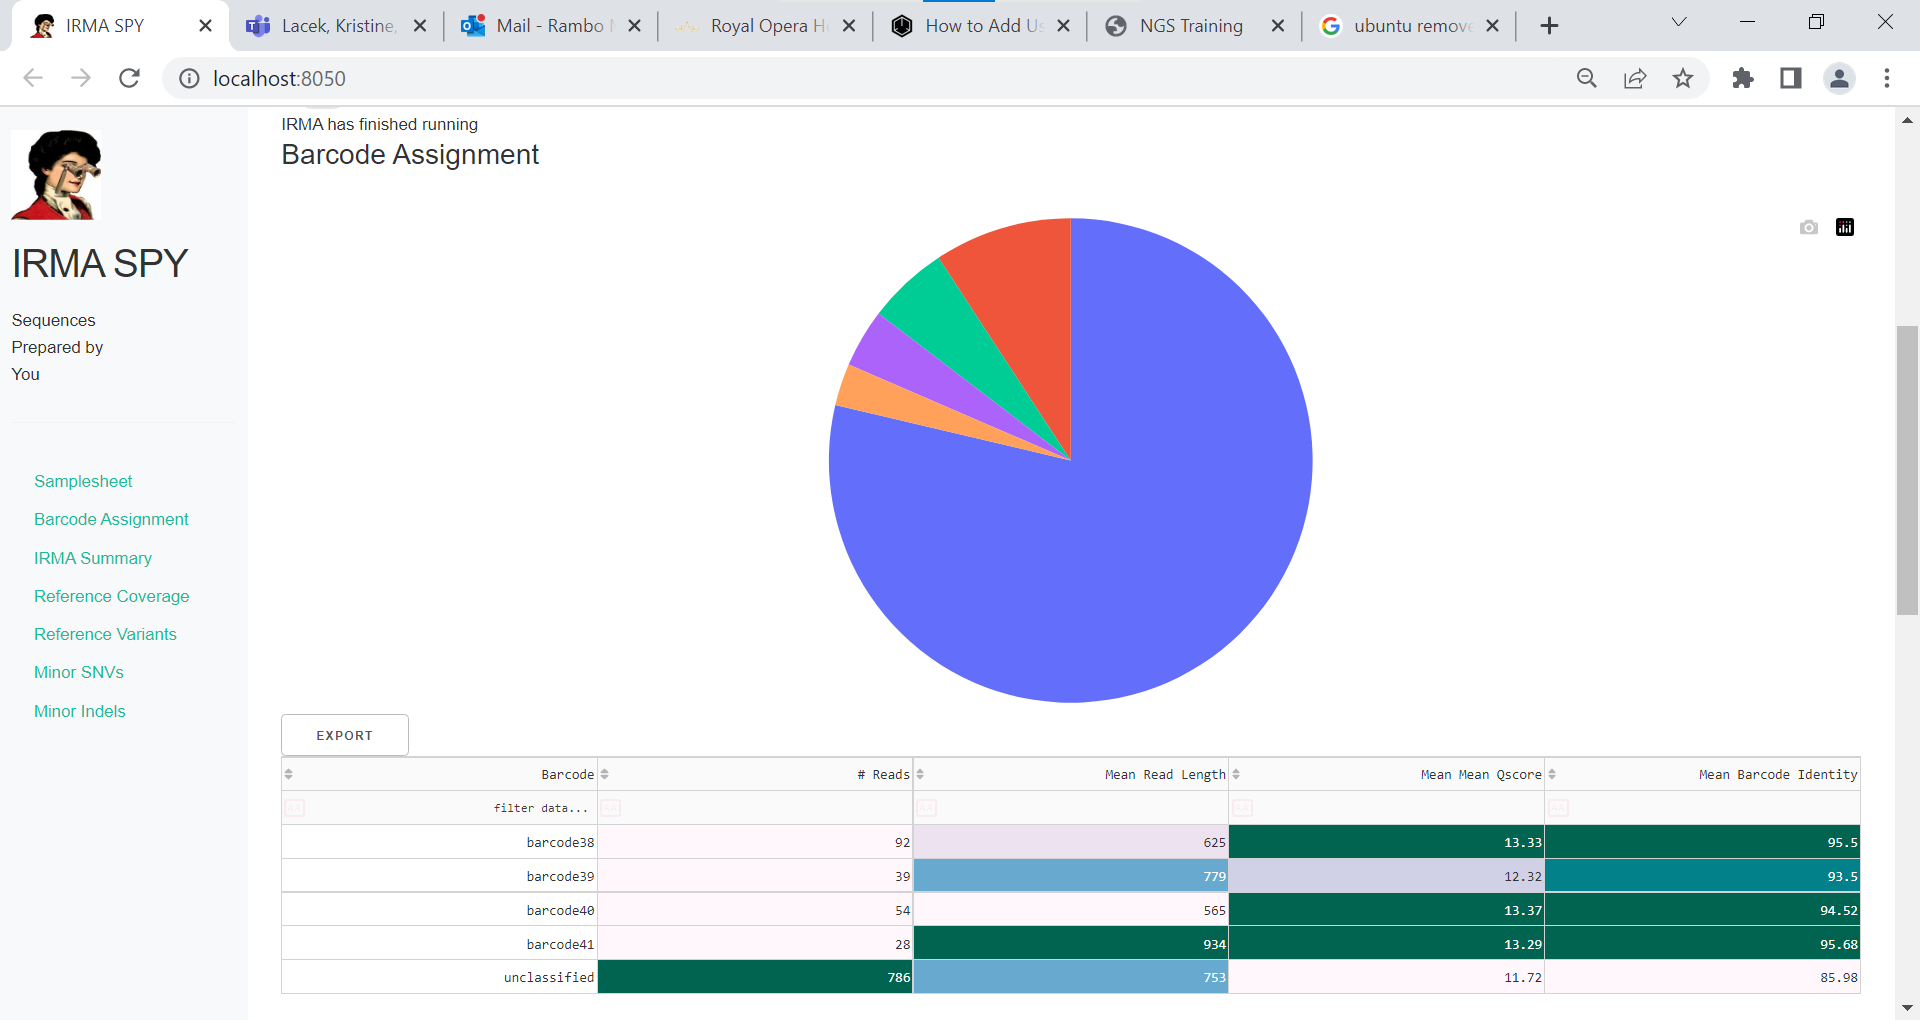
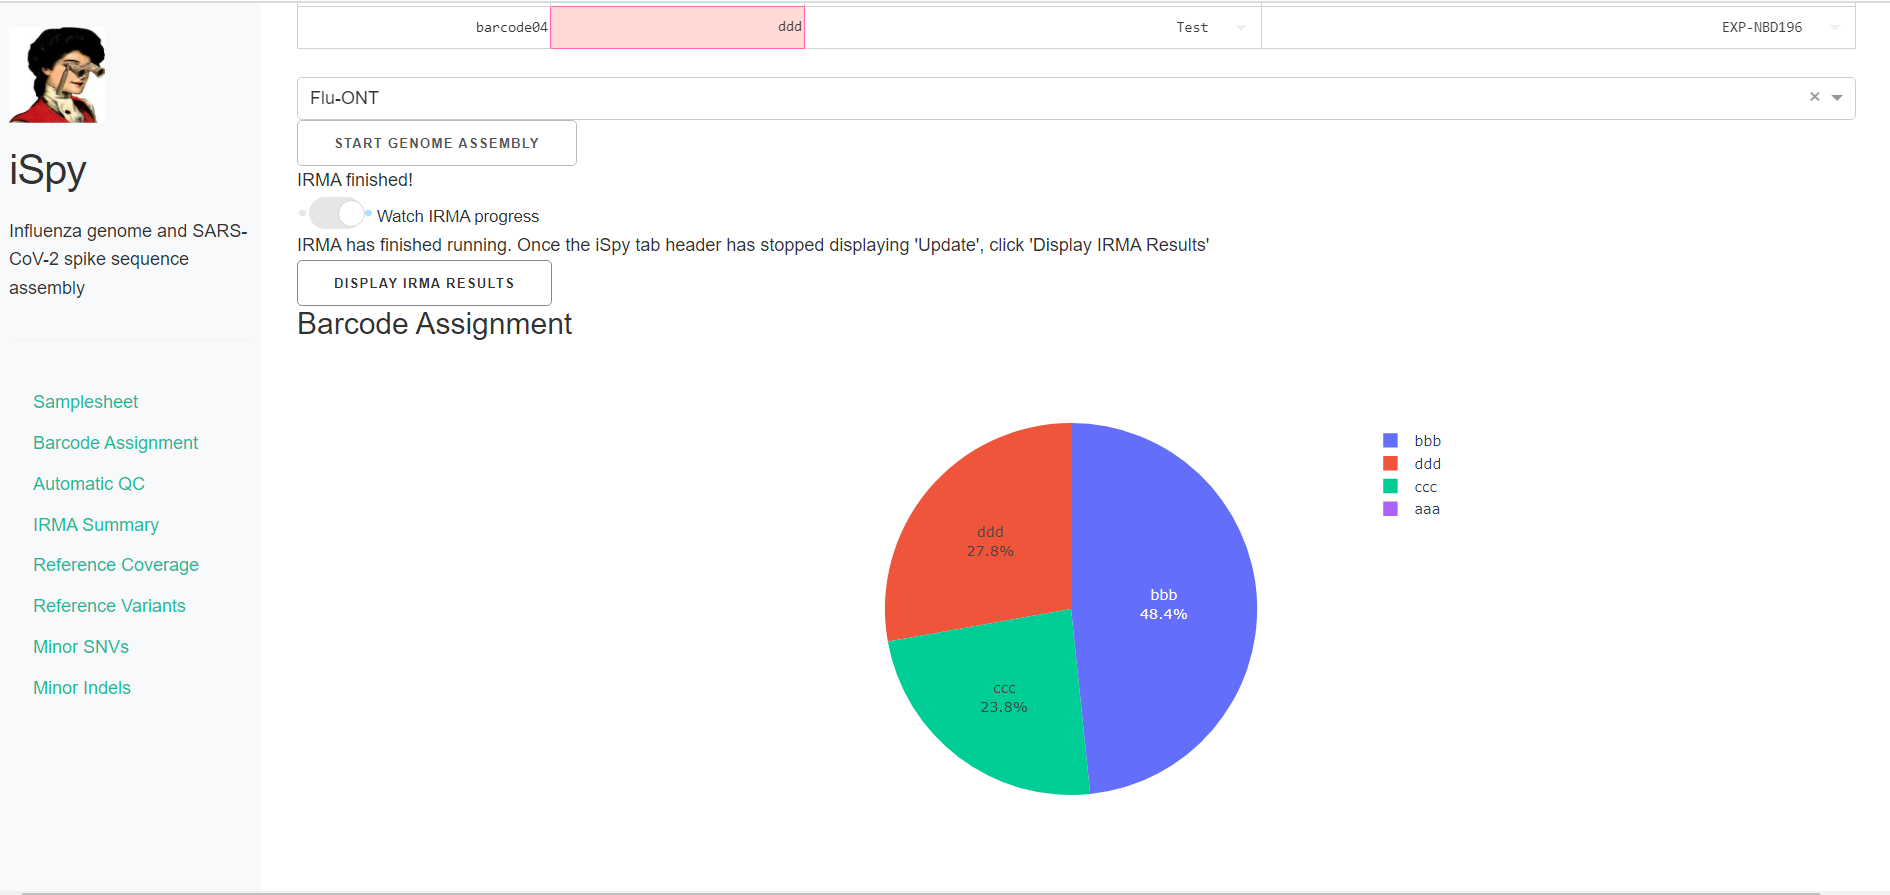
iSpy:v1.1.0 updates

diff --git a/IRMA-SPY-DOC.md b/IRMA-SPY-DOC.md
@@ -20,10 +20,7 @@
 1. In your "FLU_SC2_SEQUENCING" folder, make a folder for your run. It is very helpful to name your runs with a consistent naming system, such as "YEAR-MONTH-DATE-FLOWCELL_ID", ie. 2022-11-13-ABC1234. **_DO NOT PUT SPACES OR SLASHES IN YOU RUN FOLDER NAMES!_**
 2. Copy the run's demultiplexed fastqs into the RUN-FOLDER.
     1. If this run is from an Oxford Nanopore Technologies' (ONT) sequencer, copy the "fastq_pass" directory from the sequencer's output into the RUN-FOLDER. On a Mk1C instrument, this is found in /data/RUN_NAME/EXPERIMENT_NAME/NANOPORE-NAME/fastq_pass where RUN_NAME and EXPERIMENT_NAME are defined by you in MinKNOW when you set up the sequencing run on the device and the NANOPORE-NAME is created by the instrument during the run.
-    2. If this run is from an Illumina instrument, create another folder inside your RUN-FOLDER called "fastqs" and copy the folder containing demultiplexed fastqs into this newly created fastqs folder so that the folder structurs is FLU_SC2_SEQUENCING/RUN-FOLDER/fastqs/demultiplexed-fastqs/sample-reads.fastq. There will be two fastq files per sample.
-3. Copy the run's demultiplexing summary file into the RUN-FOLDER.
-    1. From ONT, this file is in the folder that also contains the "fastq_pass" folder and is called "sequencing_summary.txt".
-    2. From Illumina, this file is called "laneBarcode.html".
+    2. If this run is from an Illumina instrument, create another folder inside your RUN-FOLDER called "fastqs" and copy the folder containing demultiplexed fastqs into this newly created fastqs folder so that the folder structure is FLU_SC2_SEQUENCING/RUN-FOLDER/fastqs/demultiplexed-fastqs/sample-reads.fastq. There will be two fastq files per sample.
 
 [Return to contents](#contents)
 
@@ -42,24 +39,22 @@
 
     ![alt text](./images/spy-selectRun.png)
 
-4. Now, enter your `Barcode numbers`. Usually you will be running a simple range of barcode numbers, such as "1-24", but to allow for flexibilty, barcode numbers can be entered in a list combining both single numbers and number-ranges, such as "1-3,5,9,12-20". Now enter your `Sample ID`s. These can be copy and pasted from a column in an excel sheet. Sample names should only be numbers, letters, and underscores ("_"). **Do not use any other characters such as "-" or "/".** Next, select your `Sample Type`. Most of your sample's are test samples, so each row defaults to `test`, but select `- control` or `+ control` for your **negative** and **positive** controls, respectively. Finally, select the `Barcode Expansion Pack` you have    used during library preparation. This is most likely "EXP-PBC09    6".
+4. Now, enter your `Barcode numbers`. Usually you will be running a simple range of barcode numbers, such as "1-24", but to allow for flexibilty, barcode numbers can be entered in a list combining both single numbers and number-ranges, such as "1-3,5,9,12-20". Now enter your `Sample ID`s. These can be copy and pasted from a column in an excel sheet. Sample names should only be numbers, letters, and underscores ("_"). **Do not use any other characters such as "-" or "/".** Next, select your `Sample Type`. Most of your sample's are test samples, so each row defaults to `test`, but select `- control` or `+ control` for your **negative** and **positive** controls respectively. Finally, select the `Barcode Expansion Pack` you have used during library preparation. CDC's laboratory protocol is currently using "EXP-NBD196".
 
     ![alt text](./images/spy-fillSampleSheet.png)
 
-5. Click `Export` above the samplesheet to download this table as "Data.csv". Move this file into your **run** directory under `FLU_SC2_SEQUENCING` and rename it "samplesheet".
+5. Click `SAVE SAMPLESHEET`. _If you need to edit the number of samples/barcodes in your samplesheet after saving, you must click_ `RESTART SAMPLESHEET FILLING` _before editing it._ You will now have to restart filling your samplesheet from the beginning!
 
-    ![alt text](./images/spy-exportSampleSheet.png)
-    ![alt text](./images/spy-exportSampleSheet2.png)
-    ![alt text](./images/spy-exportSampleSheet3.png)
+    ![alt text](./images/spy-saveSamplesheet.png)
 
-6. Return to `iSpy` and **refresh** the webpage. Now select the correct data type from the drop down box, `What kind of data is this?` and click `START GENOME ASSEMBLY`. Now is a good time to go have a coffee. :coffee:
+6. Now select the correct data type from the drop down box, `What kind of data is this?` and click `START GENOME ASSEMBLY`. Do not click this button multiple times. Processing will take quite a long time depending on your computers specificatoins and the number of samples you are processing. Now is a good time to go have a coffee. :coffee:
 
     ![alt text](./images/spy-selectDataType.png)
 
     Click on the toggle button `Watch IRMA Progress`. Assembly will take some time, how long exactly is dependent on your sample number, the number of raw sequencing reads, and the power of your computer.
     ![alt text](./images/spy-IRMAprogess.png)
 
-7. When IRMA has finished, `refresh` the webpage and click on `DISPLAY IRMA RESULTS`. 
+7. When IRMA has finished, "Updating" will no longer be displayed on iSpy's brower tab. Click on `DISPLAY IRMA RESULTS`. You may need to _refresh_ the webpage.
 
     ![alt text](./images/spy-displayResults.png)
 
@@ -67,20 +62,28 @@
 
 ## Review IRMA results
 
-1. Review `Irma Summary`.
+1. Review the distribution of reads assigned to each barcode. The ideal result would be a similar number of reads assigned to each test and positive control. However, it is ok not have similar read numbers per sample. Samples with a low proportion of reads may indicate higher Ct of starting material or less performant PCR during library preparation. What is most important for sequencing assembly is raw count of reads and their quality.
+
+    ![alt text](./images/spy-barcodeDistribution.png)
+
+2. Review the "Automatic Quality Control Decisions" heatmap. In addition to IRMA's built in quality control, iSpy requires a minimum mean coverage of 50x, a minimum coverage of reference of 90%, and a maximum number of minor variants >=5% of 10. These are marked in orange. Samples that failed to generate any assembly are marked in red. In addition, premature stop codons are flagged in yellow. CDC does not submit sequences with premature stop codons, particularly in HA, NA or SARS-CoV-2 Spike. Outside of those genes, premature stop codons near the end of the gene may be ok for submission.
+
+    ![alt text](./images/spy-qc_heatmap.png)
+
+3. Review `Irma Summary`. This summarizes the above information, as well as detailed read assignment to specific referencs, in a table. Click `Export` to save this as an Excel file.
 
     ![alt text](./images/spy-IRMAsummary.png)
 
-2. Review genome coverage depth.
+4. Review genome coverage depth. The heatmap summarizes the mean coverage per sample per gene. All the images in iSpy can be interacted with. Play with the gray buttons on the top right of the images. The camera icon will save the image. Clicking on a sample in the heatmap, or selecting one in the drop down menu will display two plots. On the left is a "sankey plot" that shows the number of reads assigned to the barcode, how many of those passed IRMA's QC, and how many are assigned to each gene reference. The plot on the right shows the sample's complete coverage per gene. Try toggling the `log y --- ilnear y` button. In log space, you likely need to reset the view by clicking the gray button in the top right that looks like an X inside of a box. You can also try panning and zooming the plot.
 
     ![alt text](./images/spy-coverage1.png)
     ![alt text](./images/spy-coverage2.png)
 
-3. Inspect amino acid variants against popular reference sequences
+5. Inspect amino acid variants against popular reference sequences.
 
     ![alt text](./images/spy-AAvariants.png)
 
-4. Inspect minor variation at single nucleotides, insertions and deletions _relative to the sample's generated consensus sequence._ 
+6. Inspect minor variation at single nucleotides, insertions and deletions _relative to the sample's generated consensus sequence._ These tablee are for your own usage and not necessary to review in detail. They can be sorted and filtered and exported to excel sheets for further analyses.
 
     ![alt text](./images/spy-minorAlleles.png)
 
@@ -88,7 +91,7 @@
 
 ## Save your sequence fasta
 
-- Export IRMA's _amended consensus_ sequences fasta file.
+- Export IRMA's _amended consensus_ nucleotide sequences and amino acid fasta files. This includes only those passing iSpy's QC criteria and are ready for submission to public databases!
 
     ![alt text](./images/spy-saveFasta.png)
 

diff --git a/README.md b/README.md
@@ -5,6 +5,8 @@
 ### Start with demultiplexed sequencing reads from an Illumina or Oxford Nanopore Technologies sequencer and finish with high quality genomes ready for submission to public repositories!
 <hr>
 
+## [Documentation for running iSpy](https://nbx0.github.io/NGS_training/IRMA-SPY-DOC.html)
+
 ## Contents
 - [Protocol for Influenza genome and SARS-CoV-2 spike-only assembly and curation](#protocol-for-influenza-genome-and-sars-cov-2-spike-only-assembly-and-curation)
 - [Computer requirements](#computer-requirements)
@@ -13,8 +15,8 @@
 - [Install Docker Desktop](#install-docker-desktop)
 - [Install Docker CLI (Command Line Interface) in WSL2](#install-docker-cli-command-line-interface-in-wsl2)
 - [Install a sequence viewer](#install-a-sequence-viewer)
-- [Instructions for running iSpy](#instructions-for-running-ispy)
 - [Container Setup](#container-setup)
+
 
 <hr>
 <hr>
@@ -183,14 +185,11 @@ All following lines of code can be copy/pasted into your terminal.
 
 [Return to Contents](#contents)
 
-## Instructions for running iSpy
-<hr>
-
 ## Container Setup
 <hr>
 iSpy relies on four Docker **_containers_** to run, each of which must be installed using the `docker pull` command inside Linux or Mac Terminal to download the docker **_images_** from the Quay.io repository (IRMA and DAIS-Ribosome are presently stored in AWS's ECR). These **_images_** are then built into runnable **_containers_** with the `docker run` command.
 <br/><br/>
-If using a Windows PC, you should have already installed WSL2, Docker Desktop, **and** Docker CLI inside WSL2. If you have not, please return to those instructions.
+If using a Windows PC, you should have already installed WSL2, Docker Desktop, **and** Docker CLI inside WSL2. If you have not, [please return to those instructions.](#how-to-install-linux-on-a-windows-1011-computer)
 <br/><br/>
 
 1. Open an Ubuntu or Mac Terminal
@@ -215,7 +214,7 @@ If using a Windows PC, you should have already installed WSL2, Docker Desktop, *
     ```bash
     mkdir ~/FLU_SC2_SEQUENCING
     ```
-    - **_Optional:_** Navigate to `File Explorer` and find this folder inside the Ubuntu mount on the left sidebar. Click on this folder to open its contents and then open `home` and then open the folder named for your WSL _username_. Right click "FLU_SC2_SEQUENCING" and `Create Shortcut`. Move the shortcut folder to an memorable location such as your Desktop.
+    - **_Optional:_** Navigate to `File Explorer` and find this folder inside the Ubuntu mount on the left sidebar. Click on this folder to open its contents and then open `home` and then open the folder named for your WSL _username_. Right click "FLU_SC2_SEQUENCING" and `Create Shortcut`. Move the shortcut folder to a memorable location such as your Desktop.
 
 7. Build the IRMA container
     ```bash
